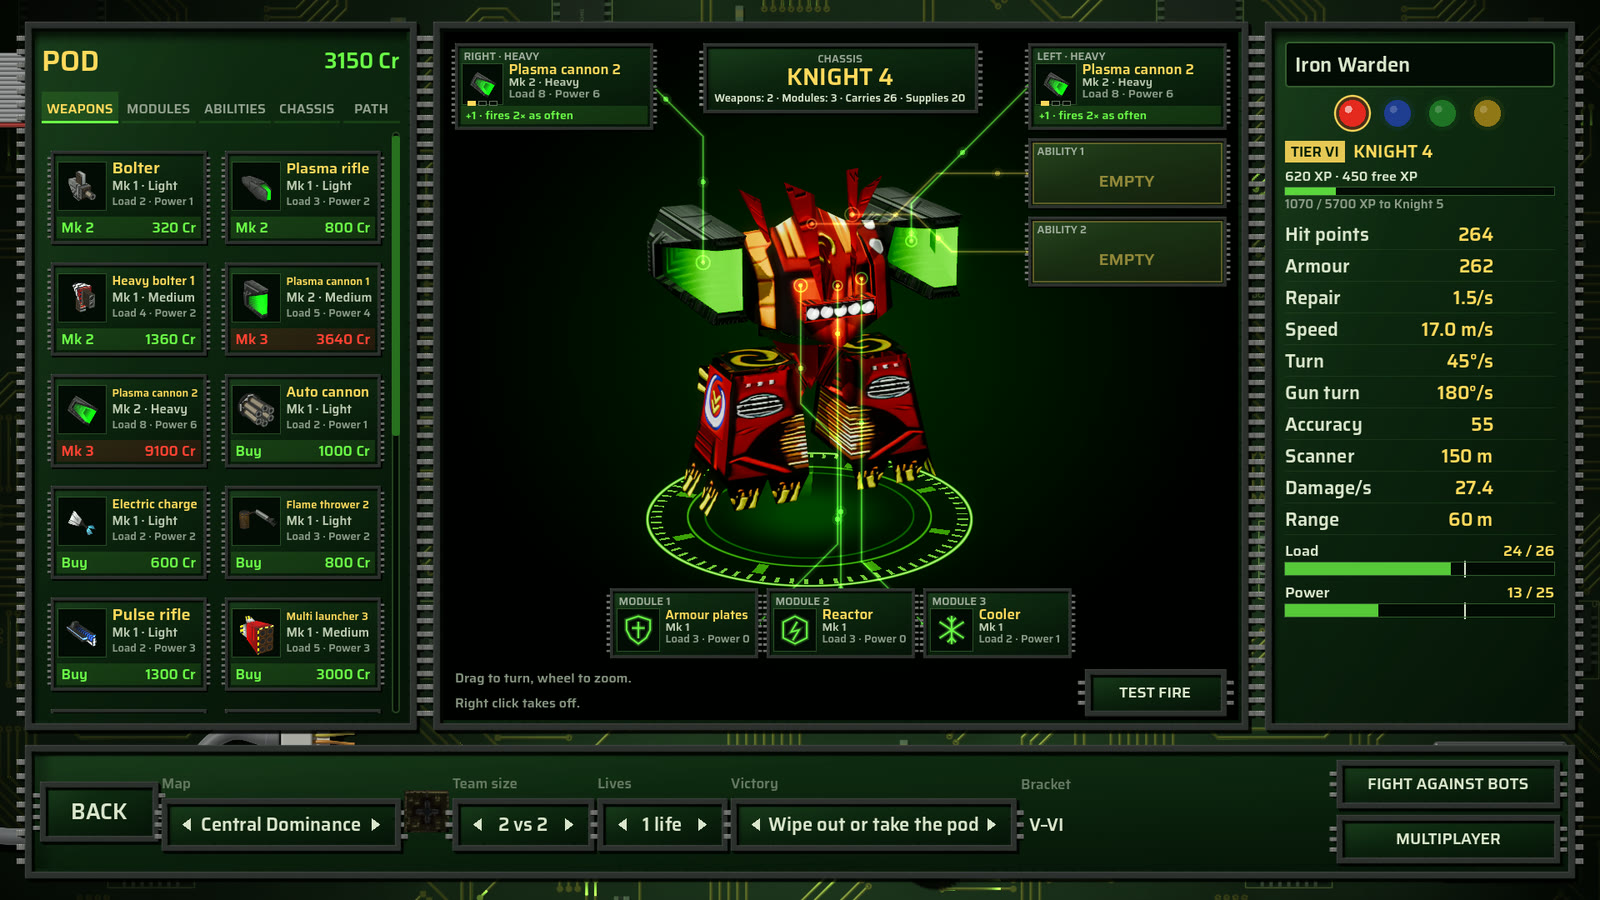
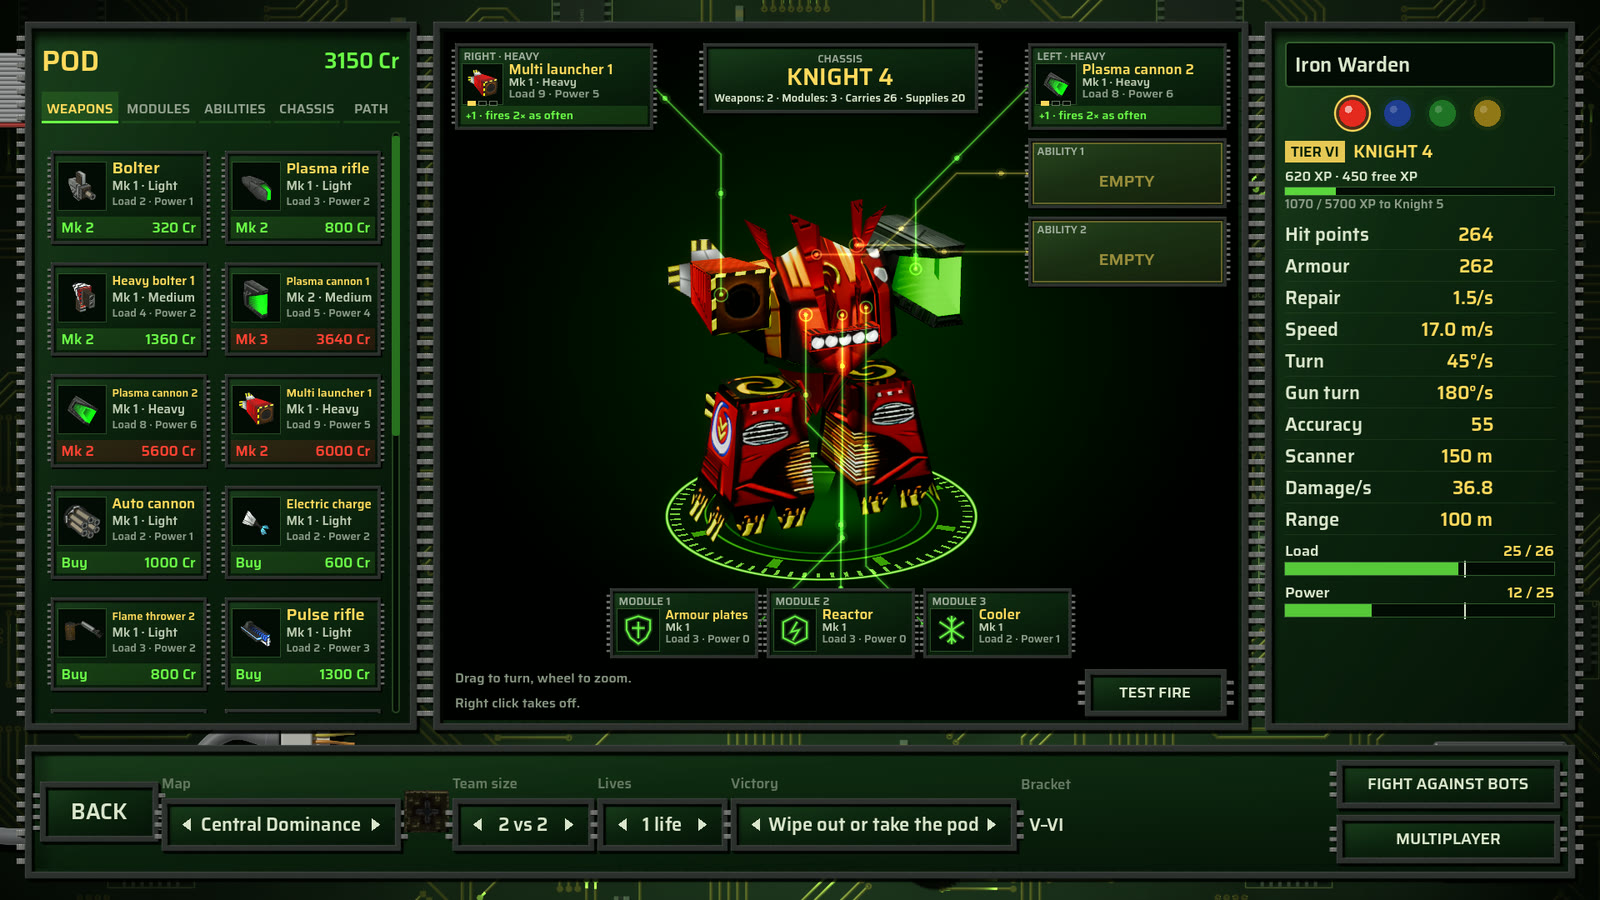
The hero on the website carries two different weapons: a multi launcher on the right and a plasma cannon on the left.

diff --git a/site/index.html b/site/index.html
@@ -338,7 +338,7 @@
     <h3 id="hero" data-t="hero">Your hero</h3>
     <div class="row modes">
       <div class="chip card">
-        <a class="shot" href="shots/pod.jpg"><img src="shots/pod.jpg" width="1600" height="900" loading="lazy" alt="The pod: a red Knight 4 with two plasma cannons and three modules, its values beside it and the shop's weapons on the left"></a>
+        <a class="shot" href="shots/pod.jpg"><img src="shots/pod.jpg" width="1600" height="900" loading="lazy" alt="The pod: a red Knight 4 with a multi launcher, a plasma cannon and three modules, its values beside it and the shop's weapons on the left"></a>
         <h4 data-t="h1">The pod</h4>
         <p data-t="h1p">Pick a chassis, drag weapons, modules and abilities onto its slots, choose a name and a colour.</p>
       </div>

diff --git a/README.md b/README.md
@@ -16,7 +16,7 @@ your own copy of the game.
 | **Campaign** | **Skirmish** |
 | ![Wired in first person](site/shots/wired.jpg) | ![A five against five battle](site/shots/battle.jpg) |
 | **Wired** | **Battle** |
-| ![The pod: a Knight 4 with two plasma cannons](site/shots/pod.jpg) | ![The chassis path from tier I to VIII](site/shots/tree.jpg) |
+| ![The pod: a Knight 4 with a multi launcher and a plasma cannon](site/shots/pod.jpg) | ![The chassis path from tier I to VIII](site/shots/tree.jpg) |
 | **The pod**: build your hero | **The chassis path** |
 
 ## What's in it
